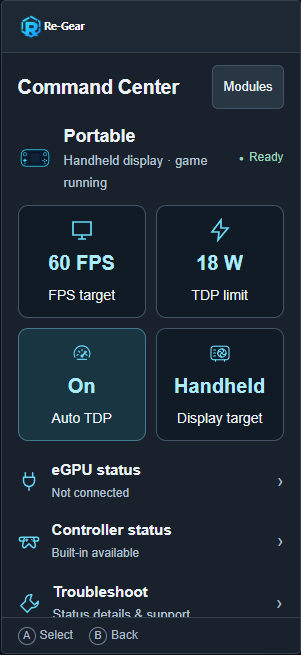
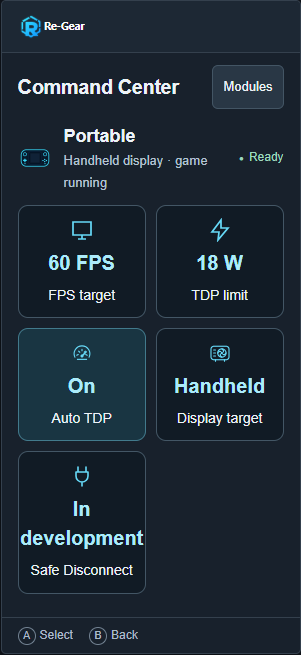
docs: prepare Safe Disconnect tile for backend integration

Changed region(s): [[0.0598, 0.7023, 0.6279, 0.9466]]

diff --git a/docs/design/command-center/review.html b/docs/design/command-center/review.html
@@ -34,8 +34,8 @@ let quickFps=60,quickWatts=18;
 function tileAsset(file){return approvedTileAssets[file].replaceAll('id="','id="tile-'+file+'-').replaceAll('title desc','tile-'+file+'-title tile-'+file+'-desc').replace('<svg ','<svg width="24" height="24" ');}
 
 function tile(key,label,value,graphic,active=false){return `<button class="tile ${active?'active':''}" data-quick="${key}" id="quick-${key}">${graphic}<strong>${value}</strong><span>${label}</span></button>`;}
-function home(f){return state(f)+(f.unknown?warning():'')+`<div class="tiles">`+tile('fps','FPS target',f.unknown?'Unavailable':quickFps+' FPS','<svg viewBox="0 0 24 24" fill="none" stroke="currentColor" stroke-width="1.7" aria-hidden="true"><path d="M3 4h18v13H3z M8 21h8 M12 17v4"/></svg>')+tile('power','TDP limit',f.available?quickWatts+' W':'Unavailable','<svg viewBox="0 0 24 24" fill="none" stroke="currentColor" stroke-width="1.7" aria-hidden="true"><path d="M13 2L4 14h7l-1 8 10-12h-7z"/></svg>')+tile('auto','Auto TDP',f.tdp,tileAsset('module-auto-tdp.svg'),f.running)+tile('display','Display target',f.unknown?'Unknown':f.connected?'TV':'Handheld',tileAsset('module-egpu.svg'))+`</div><div class="summary-pair">`+row('eGPU status',f.unknown?'Status unavailable':f.connected?f.gpu+' · connected':'Not connected','egpu-status','plug')+row('Controller status',f.unknown?'Status unavailable':f.connected?'External connected':'Built-in available','controller-status','controller')+`</div>`+row('Troubleshoot','Status details & support','troubleshoot','tools',true);}
-function openQuick(key){const f=facts(),d=document.createElement('dialog');d.className='quick-dialog';const c={fps:['FPS target',[30,40,60,90,120],'Proposed FPS control; backend integration is not available in this mockup.'],power:['TDP limit',[12,15,18,20,25],'Illustrative values. Production choices must come from verified device limits.'],auto:['Auto TDP',f.running?['Stop']:['Configure'],'Stop keeps the current limit. Starting requires configured targets and existing checks.'],display:['Display target',['Handheld','TV'],'Manual request only. Existing safety checks and confirmation must still pass.']}[key];const blocked=f.unknown||(['power','auto'].includes(key)&&!f.available);d.innerHTML=`<h3>${c[0]}</h3><p>${blocked?'Unavailable in this state.':c[2]}</p><div class="choices">${blocked?'':c[1].map(v=>`<button data-value="${v}">${v}${key==='fps'?' FPS':key==='power'?' W':''}</button>`).join('')}</div><button class="small-button close-picker">Back</button>`;root.append(d);d.querySelector('.close-picker').onclick=()=>d.close();d.addEventListener('close',()=>{d.remove();$('quick-'+key)?.focus();});d.querySelectorAll('[data-value]').forEach(b=>b.onclick=()=>{const v=b.dataset.value;d.close();if(key==='fps')quickFps=Number(v);if(key==='power')quickWatts=Number(v);if(key==='auto'&&v==='Stop')stopped=true;if(key==='auto'&&v==='Configure'){navigate('tdp','quick-auto');return;}toast=key==='display'?'Preview: existing guarded '+v+' display request would open. No device change.':'Preview only: '+c[0]+' selection updated.';render('quick-'+key);});d.showModal();}
+function home(f){return state(f)+(f.unknown?warning():'')+`<div class="tiles">`+tile('fps','FPS target',f.unknown?'Unavailable':quickFps+' FPS','<svg viewBox="0 0 24 24" fill="none" stroke="currentColor" stroke-width="1.7" aria-hidden="true"><path d="M3 4h18v13H3z M8 21h8 M12 17v4"/></svg>')+tile('power','TDP limit',f.available?quickWatts+' W':'Unavailable','<svg viewBox="0 0 24 24" fill="none" stroke="currentColor" stroke-width="1.7" aria-hidden="true"><path d="M13 2L4 14h7l-1 8 10-12h-7z"/></svg>')+tile('auto','Auto TDP',f.tdp,tileAsset('module-auto-tdp.svg'),f.running)+tile('display','Display target',f.unknown?'Unknown':f.connected?'TV':'Handheld',tileAsset('module-egpu.svg'))+tile('disconnect','Safe Disconnect','In development',icon('plug'))+`</div><div class="summary-pair">`+row('eGPU status',f.unknown?'Status unavailable':f.connected?f.gpu+' · connected':'Not connected','egpu-status','plug')+row('Controller status',f.unknown?'Status unavailable':f.connected?'External connected':'Built-in available','controller-status','controller')+`</div>`+row('Troubleshoot','Status details & support','troubleshoot','tools',true);}
+function openQuick(key){const f=facts(),d=document.createElement('dialog');d.className='quick-dialog';const c={disconnect:['Safe Disconnect',[],'In development. This button is prepared for the disconnect workflow. No disconnect action is available yet.'],fps:['FPS target',[30,40,60,90,120],'Proposed FPS control; backend integration is not available in this mockup.'],power:['TDP limit',[12,15,18,20,25],'Illustrative values. Production choices must come from verified device limits.'],auto:['Auto TDP',f.running?['Stop']:['Configure'],'Stop keeps the current limit. Starting requires configured targets and existing checks.'],display:['Display target',['Handheld','TV'],'Manual request only. Existing safety checks and confirmation must still pass.']}[key];const blocked=f.unknown||(['power','auto'].includes(key)&&!f.available);d.innerHTML=`<h3>${c[0]}</h3><p>${blocked?'Unavailable in this state.':c[2]}</p><div class="choices">${blocked?'':c[1].map(v=>`<button data-value="${v}">${v}${key==='fps'?' FPS':key==='power'?' W':''}</button>`).join('')}</div><button class="small-button close-picker">Back</button>`;root.append(d);d.querySelector('.close-picker').onclick=()=>d.close();d.addEventListener('close',()=>{d.remove();$('quick-'+key)?.focus();});d.querySelectorAll('[data-value]').forEach(b=>b.onclick=()=>{const v=b.dataset.value;d.close();if(key==='fps')quickFps=Number(v);if(key==='power')quickWatts=Number(v);if(key==='auto'&&v==='Stop')stopped=true;if(key==='auto'&&v==='Configure'){navigate('tdp','quick-auto');return;}toast=key==='display'?'Preview: existing guarded '+v+' display request would open. No device change.':'Preview only: '+c[0]+' selection updated.';render('quick-'+key);});d.showModal();}
 function modules(f){return '<p class="notice">Configuration & preferences</p>'+row('eGPU','Connection, display & docking','egpu','plug')+row('Auto TDP',f.available?'Power targets & saved preferences':'Unavailable · view details','tdp','gauge')+row('Controller','Controller status & shortcuts','controller','controller')+'<div class="divider"></div>'+row('Troubleshoot','Diagnostics, readiness & support','troubleshoot','tools',true);}
 function egpu(f){return state(f)+(f.unknown?warning():'')+`<section class="section"><div class="section-body"><div class="section-title">${icon('plug')}<h3>Connection</h3></div>${detail('eGPU',f.unknown?'Unknown':f.connected?f.gpu:'Not connected')}${detail('Display',f.unknown?'Unknown':f.connected?'External display':'Handheld display')}${detail('Render GPU',f.unknown?'Unknown':f.connected?'External GPU':'Internal GPU')}${detail('Lifecycle',f.unknown?'Unknown':'Ready')}</div></section>`+(f.connected?`<section class="section"><div class="section-body"><h3>Display target</h3><p class="sub">Return display output to the handheld.</p></div>${action('Switch to handheld','preview','restore',true)}</section>`:'')+`<section class="section"><div class="section-body"><div class="section-title"><h3>Dock preferences</h3><span class="badge">Experimental</span></div><label class="field"><span>Automatic TV docking</span><input aria-label="Automatic TV docking" type="checkbox" ${f.unknown?'disabled':''} id="auto-dock"></label><p class="sub">Opt-in only. Availability follows current device checks.</p></div></section><p class="notice">Live eGPU removal is not supported. Disconnect and shutdown reliability remain under validation.</p>`+row('Troubleshoot','Connection details & recovery','troubleshoot','tools',true);}
 function tdp(f){const enabled=f.available&&!f.running&&!f.pending;return `<section class="section"><div class="section-body"><div class="section-title">${icon('gauge')}<h3>Auto TDP</h3><span class="badge">${f.tdp}</span></div>${f.available?`<p class="sub">${f.pending?'Waiting for the session to stop.':f.running?'Automatically adjusting within your range.':'Current limit retained. Configure before starting.'}</p>${detail('Configured limit','18 W')}`:`<p class="sub">${f.connected?'Power control is unavailable in the current docked state.':f.unknown?'Current power status could not be read.':'This device has no verified power control.'}</p>`}</div></section><section class="section"><div class="section-body"><h3>Targets</h3><label class="field"><span>Target frame rate</span><select aria-label="Target frame rate" ${enabled?'':'disabled'}><option>60 FPS</option><option>40 FPS</option><option>30 FPS</option></select></label><label class="field"><span>Minimum power</span><select aria-label="Minimum power" ${enabled?'':'disabled'}><option>12 W</option><option>14 W</option></select></label><label class="field"><span>Maximum power</span><select aria-label="Maximum power" ${enabled?'':'disabled'}><option>25 W</option><option>20 W</option></select></label></div>${f.running?action('Stop Auto TDP','stop','stop-tdp',true):f.pending?'<button class="action" disabled>Stopping Auto TDP…</button>':f.available?action('Start Auto TDP','start','start-tdp',true):'<button class="action" disabled>Start unavailable</button>'}</section><p class="notice">Stop keeps the current limit. Restore returns to saved settings. Closing this page keeps Auto TDP running.</p><details><summary>Manual power & Restore</summary><p>Existing manual controls stay behind this disclosure, with their current enablement and restore checks.</p></details><details><summary>Saved mode preferences</summary><p>Saving a preference does not start Auto TDP. Per-game profiles are not available.</p></details><details><summary>Advanced · collection benchmark</summary><p>Existing collection tools remain separate from quick controls.</p></details>`;}

diff --git a/docs/design/command-center/REVISION_02.md b/docs/design/command-center/REVISION_02.md
@@ -6,6 +6,12 @@ stacked first-screen performance block with small selectable icon/value tiles.
 This revision implements that instruction in the local mockup only.
 
 - Two columns: FPS target, TDP limit, Auto TDP, Display target.
+- User follow-up explicitly adds a fifth **Safe Disconnect** tile, prepared for
+  Claude's upcoming backend work. It displays **In development** and opens an
+  informational placeholder with no disconnect operation. Do not invent a sixth
+  tile merely to fill the grid. Production enablement requires the owning
+  backend's verified capability, readiness and confirmation flow; this mockup
+  neither asserts safe live removal nor changes current shutdown guidance.
 - Tile activation opens a compact picker; Auto TDP offers Stop while running
   or Configure otherwise. Back restores the invoking tile.
 - Compact eGPU and Controller summaries follow the grid; deeper pages remain
